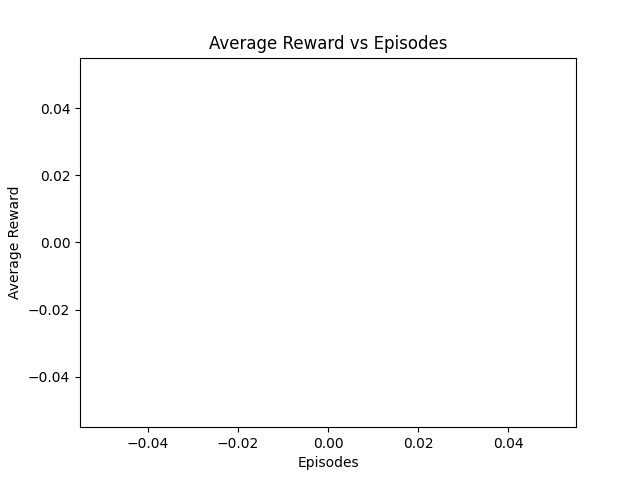
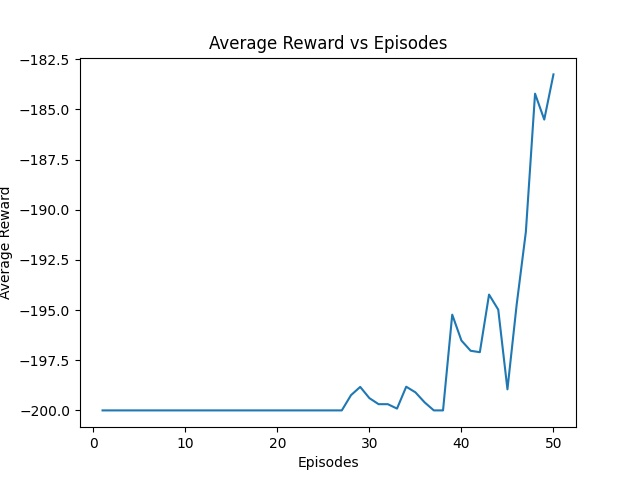
Solved!!!!!!!

diff --git a/gym/envs/classic_control/files/mountainCarSolution.py b/gym/envs/classic_control/files/mountainCarSolution.py
@@ -6,86 +6,82 @@ env = gym.make('MountainCar-v0')
 env.reset()
 # Define Q-learning function
 def QLearning(env, learning, discount, epsilon, min_eps, episodes):
- # Determine size of discretized state space
- num_states = (env.observation_space.high - env.observation_space.low)*np.array([10, 100])
- num_states = np.round(num_states, 0).astype(int) + 1
+    # Determine size of discretized state space
+    num_states = (env.observation_space.high - env.observation_space.low)*np.array([10, 100])
+    num_states = np.round(num_states, 0).astype(int) + 1
 
- # Initialize Q table
- Q = np.random.uniform(low = -1, high = 1, size = (num_states[0], num_states[1], env.action_space.n))
+    # Initialize Q table
+    Q = np.random.uniform(low = -1, high = 1, size = (num_states[0], num_states[1], env.action_space.n))
 
- # Initialize variables to track rewards
- reward_list = []
- ave_reward_list = []
+    # Initialize variables to track rewards
+    reward_list = []
+    ave_reward_list = []
 
- # Calculate episodic reduction in epsilon
- reduction = (epsilon - min_eps)/episodes
+    # Calculate episodic reduction in epsilon
+    reduction = (epsilon - min_eps)/episodes
 
- # Run Q learning algorithm
- for i in range(episodes):
-  # Initialize parameters
-  done = False
-  tot_reward, reward = 0,0
-  state = env.reset()
+    # Run Q learning algorithm
+    for i in range(episodes):
+        # Initialize parameters
+        done = False
+        tot_reward, reward = 0,0
+        state = env.reset()
 
-  # Discretize state
-  state_adj = (state - env.observation_space.low)*np.array([10, 100])
-  state_adj = np.round(state_adj, 0).astype(int)
+        # Discretize state
+        state_adj = (state - env.observation_space.low)*np.array([10, 100])
+        state_adj = np.round(state_adj, 0).astype(int)
 
-  while done != True:
-   # Render environment for last five episodes
-   if i >= (episodes - 20):
-    env.render()
+        while done != True:
+            # Render environment for last five episodes
+            if i >= (episodes - 10):
+                env.render()
 
-   # Determine next action - epsilon greedy strategy
-   if np.random.random() < 1 - epsilon:
-    action = np.argmax(Q[state_adj[0], state_adj[1]])
-   else:
-    action = np.random.randint(0, env.action_space.n)
+            # Determine next action - epsilon greedy strategy
+            if np.random.random() < 1 - epsilon:
+                action = np.argmax(Q[state_adj[0], state_adj[1]])
+            else:
+                action = np.random.randint(0, env.action_space.n)
 
-   # Get next state and reward
-   state2, reward, done, info = env.step(action)
+            # Get next state and reward
+            state2, reward, done, info = env.step(action)
 
-   # Discretize state2
-   state2_adj = (state2 - env.observation_space.low)*np.array([10, 100])
-   state2_adj = np.round(state2_adj, 0).astype(int)
-  #Allow for terminal states
-   if done and state2[0] >= 0.5:
-    Q[state_adj[0], state_adj[1], action] = reward
+            # Discretize state2
+            state2_adj = (state2 - env.observation_space.low)*np.array([10, 100])
+            state2_adj = np.round(state2_adj, 0).astype(int)
+            #Allow for terminal states
+            if done and state2[0] >= 0.5:
+                Q[state_adj[0], state_adj[1], action] = reward
 
-   # Adjust Q value for current state
-   else:
-    delta = learning*(reward +
-    discount*np.max(Q[state2_adj[0],
-    state2_adj[1]]) -
-    Q[state_adj[0], state_adj[1],action])
-    Q[state_adj[0], state_adj[1],action] += delta
+            # Adjust Q value for current state
+            else:
+                delta = learning*(reward + discount*np.max(Q[state2_adj[0], state2_adj[1]]) - Q[state_adj[0], state_adj[1],action])
+                Q[state_adj[0], state_adj[1],action] += delta
 
-   # Update variables
-   tot_reward += reward
-   state_adj = state2_adj
+            # Update variables
+            tot_reward += reward
+            state_adj = state2_adj
 
-  # Decay epsilon
-  if epsilon > min_eps:
-   epsilon -= reduction
+        # Decay epsilon
+        if epsilon > min_eps:
+            epsilon -= reduction
 
-  # Track rewards
-  reward_list.append(tot_reward)
+        # Track rewards
+        reward_list.append(tot_reward)
 
-  if (i+1 % 100) == 0:
-   ave_reward = np.mean(reward_list)
-   ave_reward_list.append(ave_reward)
-   reward_list = []
+        if ((i+1) % 100) == 0:
+            ave_reward = np.mean(reward_list)
+            ave_reward_list.append(ave_reward)
+            reward_list = []
+            print('Episode {} Average Reward: {}'.format(i+1, ave_reward))
 
-  if (i+1) % 100 == 0:
-   print('Episode {} Average Reward: {}'.format(i+1, ave_reward))
-
-  env.close()
-
-  return ave_reward_list
+    env.close()
+    print(ave_reward_list)
+    return ave_reward_list
 
 # Run Q-learning algorithm
-rewards = QLearning(env, 0.2, 0.9, 0.8, 0, 500)
+rewards = QLearning(env, 0.2, 0.9, 0.8, 0, 5000)
 # Plot Rewards
+print(rewards)
 plt.plot(100*(np.arange(len(rewards)) + 1), rewards)
 plt.xlabel('Episodes')
 plt.ylabel('Average Reward')
